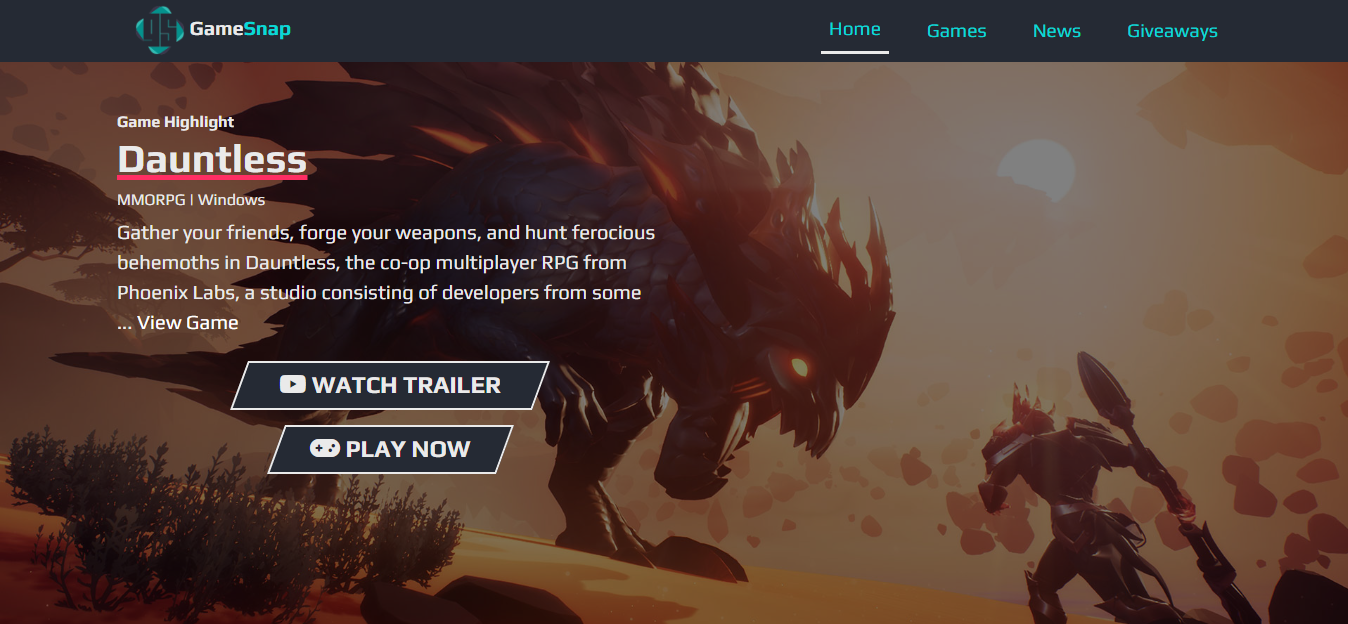
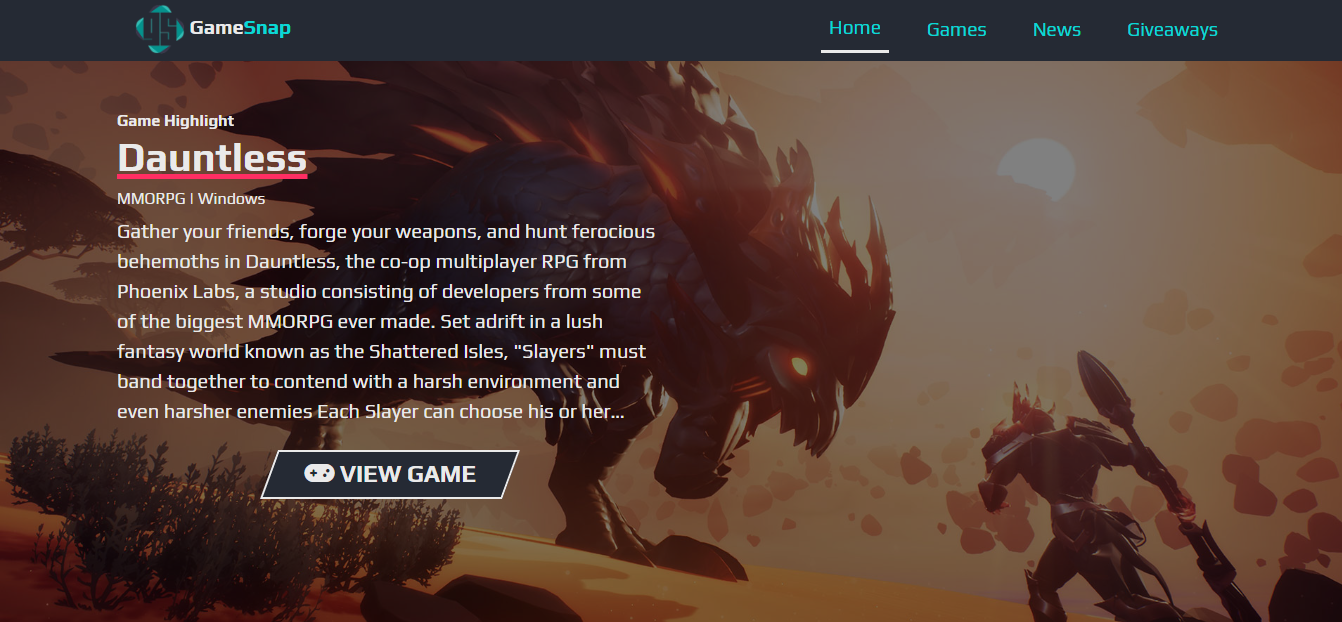
Fixed GameSnap on projects section

diff --git a/src/components/sections/Modals.js b/src/components/sections/Modals.js
@@ -8,10 +8,28 @@ import spiderImg from "../../images/projects/spider.png";
 import spiderImg2 from "../../images/projects/spider2.PNG";
 import spiderImgMb from "../../images/projects/spider-mb.jpg";
 import gsImg from "../../images/projects/gs.PNG";
+import gsImg2 from "../../images/projects/gs2.PNG";
+import gsImgMb from "../../images/projects/gs-mb.jpg";
 
 function Modals() {
   return (
     <div>
+      <ProjectModal
+        id="gs-modal"
+        name="GameSnap"
+        desc="News, Giveaways, and Info about Free2Play games. Have been using it for myself to find games to play recently."
+        tech={["React JS", "Bootstrap", "Axios", "Vercel"]}
+        info={[
+          "Consumes MMOBOMB RapidAPI through Axios.",
+          "Every game can be viewed individually for more in-depth information.",
+          "Has gameplay screenshots and videos.",
+          "Can filter by platform and genre, as well as sort results.",
+          "Also has News and Giveaways section.",
+        ]}
+        image1={gsImg}
+        image2={gsImg2}
+        mbImage={gsImgMb}
+      />
       <ProjectModal
         id="rmdb-modal"
         name="Rick and Morty Database"
@@ -59,16 +77,6 @@ function Modals() {
         image1={spiderImg}
         image2={spiderImg2}
         mbImage={spiderImgMb}
-      />
-      <ProjectModal
-        id="gs-modal"
-        name="GameSnap"
-        desc="News, Giveaways, and Info about Free2Play games."
-        tech={["React JS", "Bootstrap", "Axios", "Vercel"]}
-        info={[
-          "Currently under development, but you can visit to check out my progress so far.",
-        ]}
-        image1={gsImg}
       />
     </div>
   );

diff --git a/src/components/sections/Projects.js b/src/components/sections/Projects.js
@@ -14,6 +14,15 @@ function Projects() {
       <div className="row row-cols-1 row-cols-lg-2">
         <div className="col">
           <ProjectItem
+            name="GameSnap"
+            image={gsImg}
+            live="https://game-snap.vercel.app/"
+            source="https://github.com/justinkenramoso/gamesnap"
+            modal="#gs-modal"
+          />
+        </div>
+        <div className="col">
+          <ProjectItem
             name="Rick and Morty Database"
             image={rmdbImg}
             live="https://rm-db.vercel.app/"
@@ -28,15 +37,6 @@ function Projects() {
             live="https://spider-pc-store.vercel.app/"
             source="https://github.com/justinkenramoso/spider-pc-store"
             modal="#spider-modal"
-          />
-        </div>
-        <div className="col">
-          <ProjectItem
-            name="GameSnap (ongoing development)"
-            image={gsImg}
-            live="https://game-snap.vercel.app/"
-            source="https://github.com/justinkenramoso/gamesnap"
-            modal="#gs-modal"
           />
         </div>
       </div>

diff --git a/src/components/sections/Landing.js b/src/components/sections/Landing.js
@@ -45,7 +45,7 @@ function Landing() {
           {/* <!--Resume--> */}
           <a
             className="introBtn resumeBtn hvr-grow-rotate"
-            href="https://drive.google.com/file/d/1MpVxr42dkdWDF3lYpv_ZoA1pCrEaxBtk/view?usp=share_link"
+            href="https://drive.google.com/file/d/1PX85_zouiIJ7N1CpxCysQBtrhul3l6Sb/view?usp=share_link"
             target="_blank"
             rel="noreferrer"
           >
